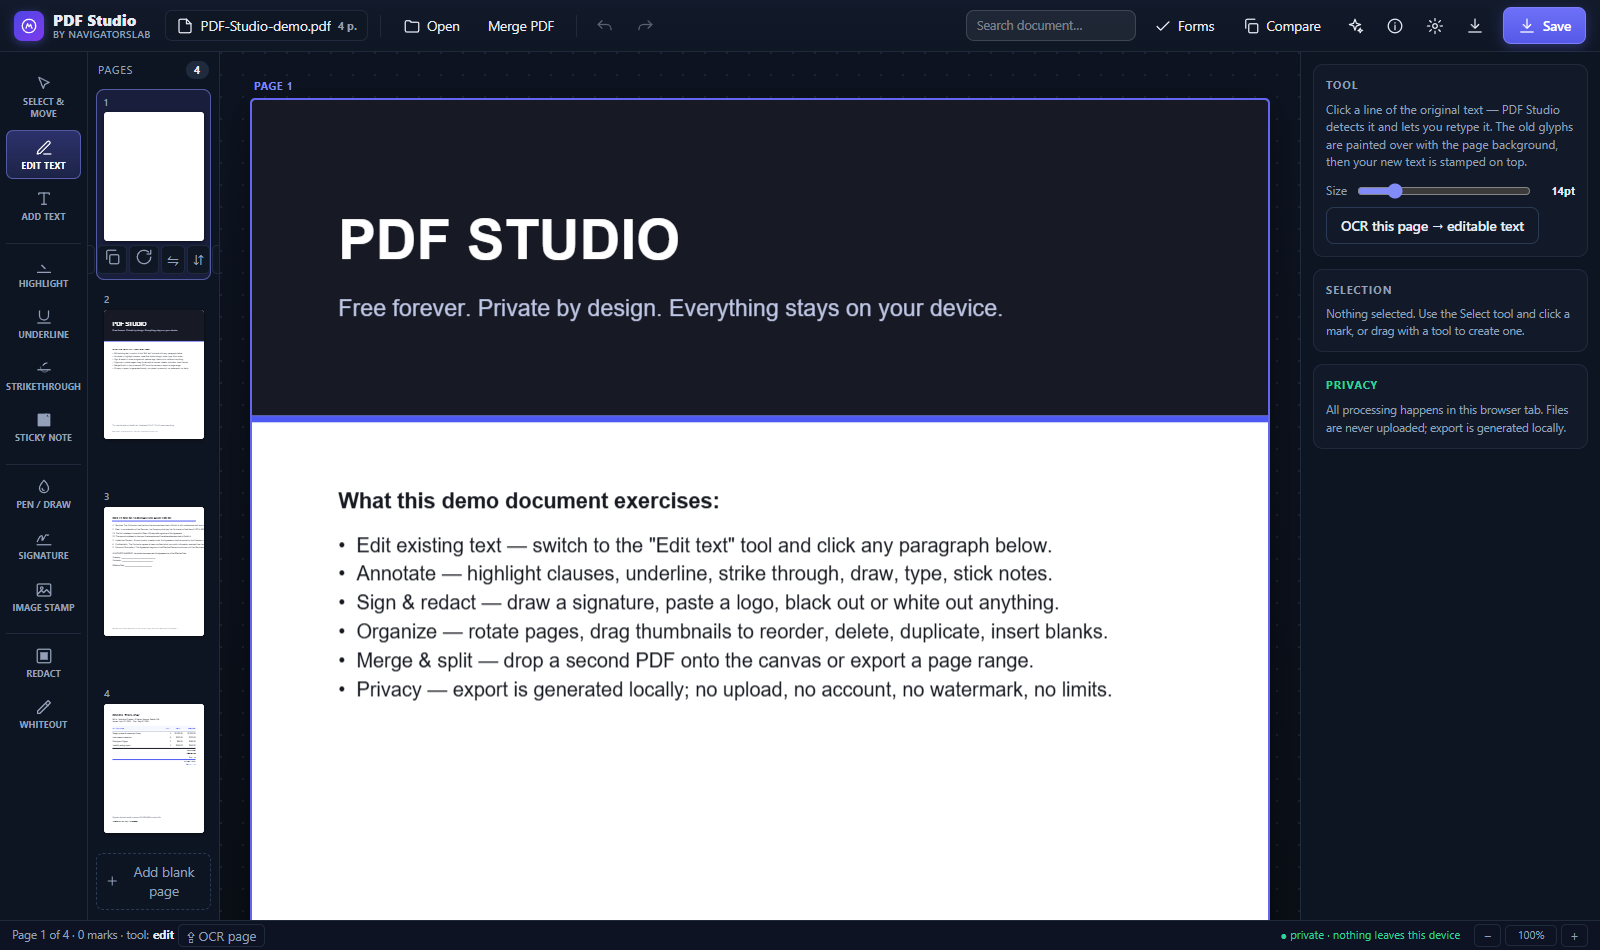
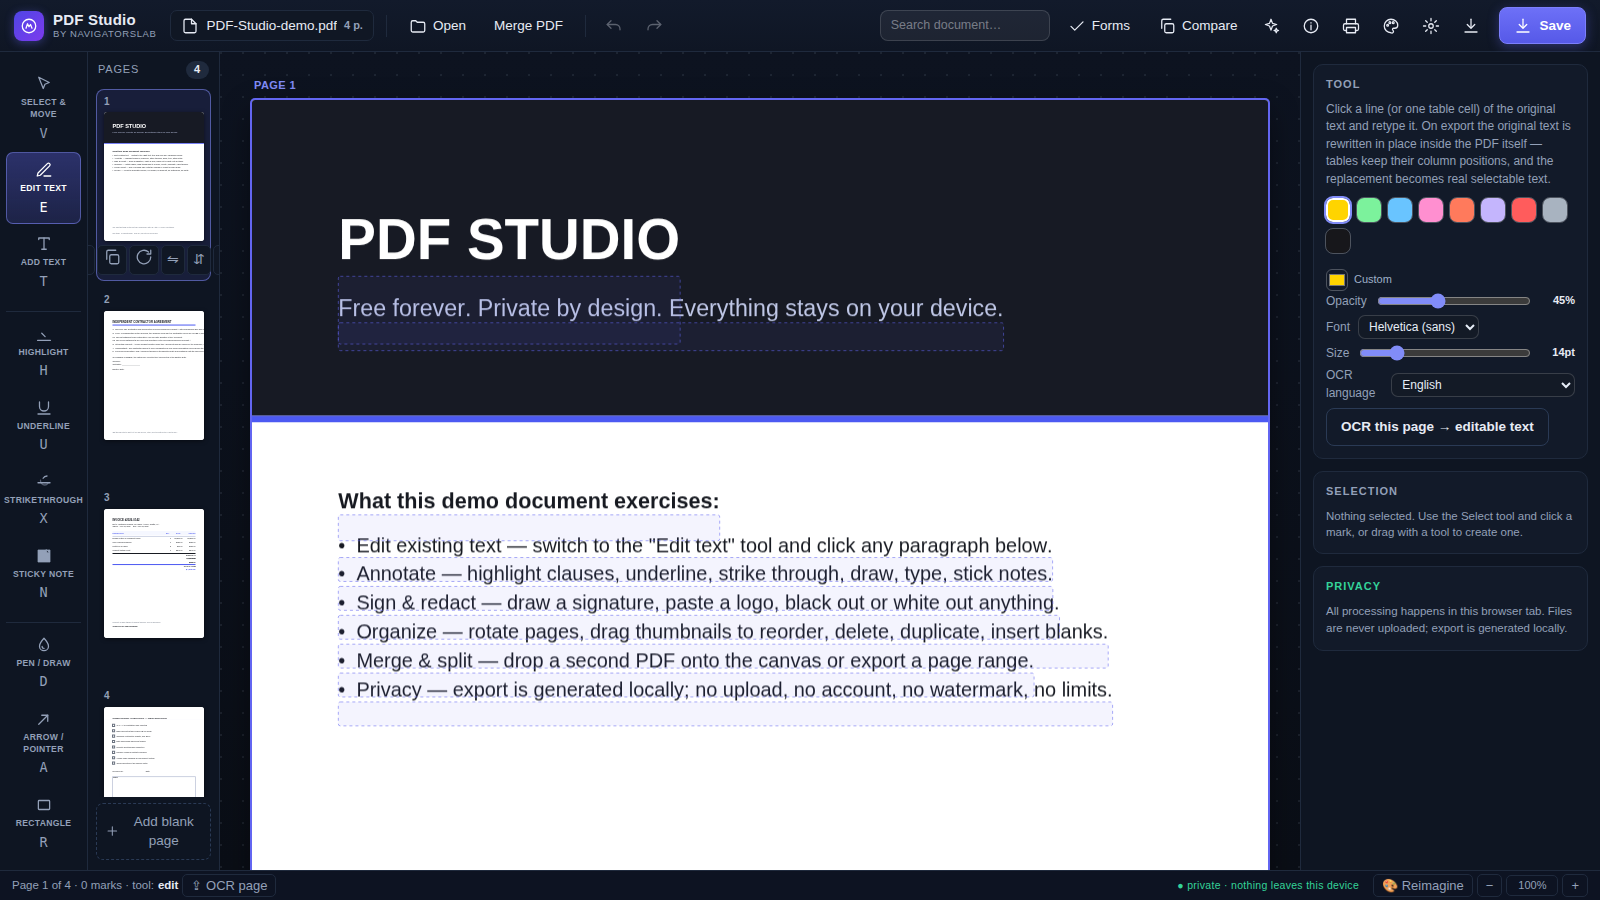
README: curated 11-shot gallery (real captures, visually verified) and soften 'every free editor' claim

diff --git a/README.md b/README.md
@@ -22,7 +22,7 @@
 
 ## The problem
 
-Every "free" PDF editor works the same way: upload your contract or your ID to somebody's server, edit three pages, then get hit with a paywall, a watermark, a page cap, or a sign-up screen the moment you press Save. Desktop editors that genuinely modify existing text cost a subscription.
+Most "free" PDF editors work the same way: upload your contract or your ID to somebody's server, edit three pages, then get hit with a paywall, a watermark, a page cap, or a sign-up screen the moment you press Save. (The honest exceptions are self-hosted tools — but those make *you* run the infrastructure.) Desktop editors that genuinely modify existing text cost a subscription.
 
 ## The fix
 
@@ -51,16 +51,17 @@ PDF Studio runs **100% in your browser**. Your files are opened, edited, and sav
 
 <br>
 
+![PDF Studio — the full editor, free forever and private by design](docs/shots/01-hero.png)
 ![Edit hints — every line of the original text is a clickable target](docs/shots/02-edit-hints.png)
-![Inline editing — retyping a line rewrites the file, table cells stay independent](docs/shots/03-edit-inline.png)
-![Forms dialog listing every field with inline editing](docs/shots/07-forms.png)
-![Signature pad with live drawing](docs/shots/05-signature-pad.png)
-![Redaction, arrows, ellipses, rectangles — all live marks](docs/shots/13-shapes-redact.png)
-![Thumbnail rail with per-page organize controls](docs/shots/06-pages-thumbs.png)
-![Export dialog with stamping panel](docs/shots/09-export-stamps.png)
-![Compare dialog with line diff](docs/shots/10-compare.png)
-![On-device AI assistant dialog](docs/shots/11-ai.png)
-![Mobile layout — bottom tool bar, full-width pages](docs/shots/14-mobile.png)
+![Underline tool with color and opacity controls](docs/shots/03-annotate.png)
+![True redaction — covered text is deleted from the file, not painted over](docs/shots/04-redact.png)
+![Signature pad — draw with mouse, trackpad, or touch](docs/shots/05-signature-pad.png)
+![Signature stamped onto the page](docs/shots/05b-signature-placed.png)
+![Fill form fields — values written into the real AcroForm fields](docs/shots/06-forms.png)
+![Compare two PDFs — line-by-line diff of two versions](docs/shots/07-compare.png)
+![Export dialog — page ranges, split, stamps, document properties](docs/shots/08-export.png)
+![On-device AI assistant — ask questions about your document, nothing uploaded](docs/shots/09-ai.png)
+![Mobile layout — bottom toolbar, full-width pages](docs/shots/10-mobile.png)
 
 </details>
 
